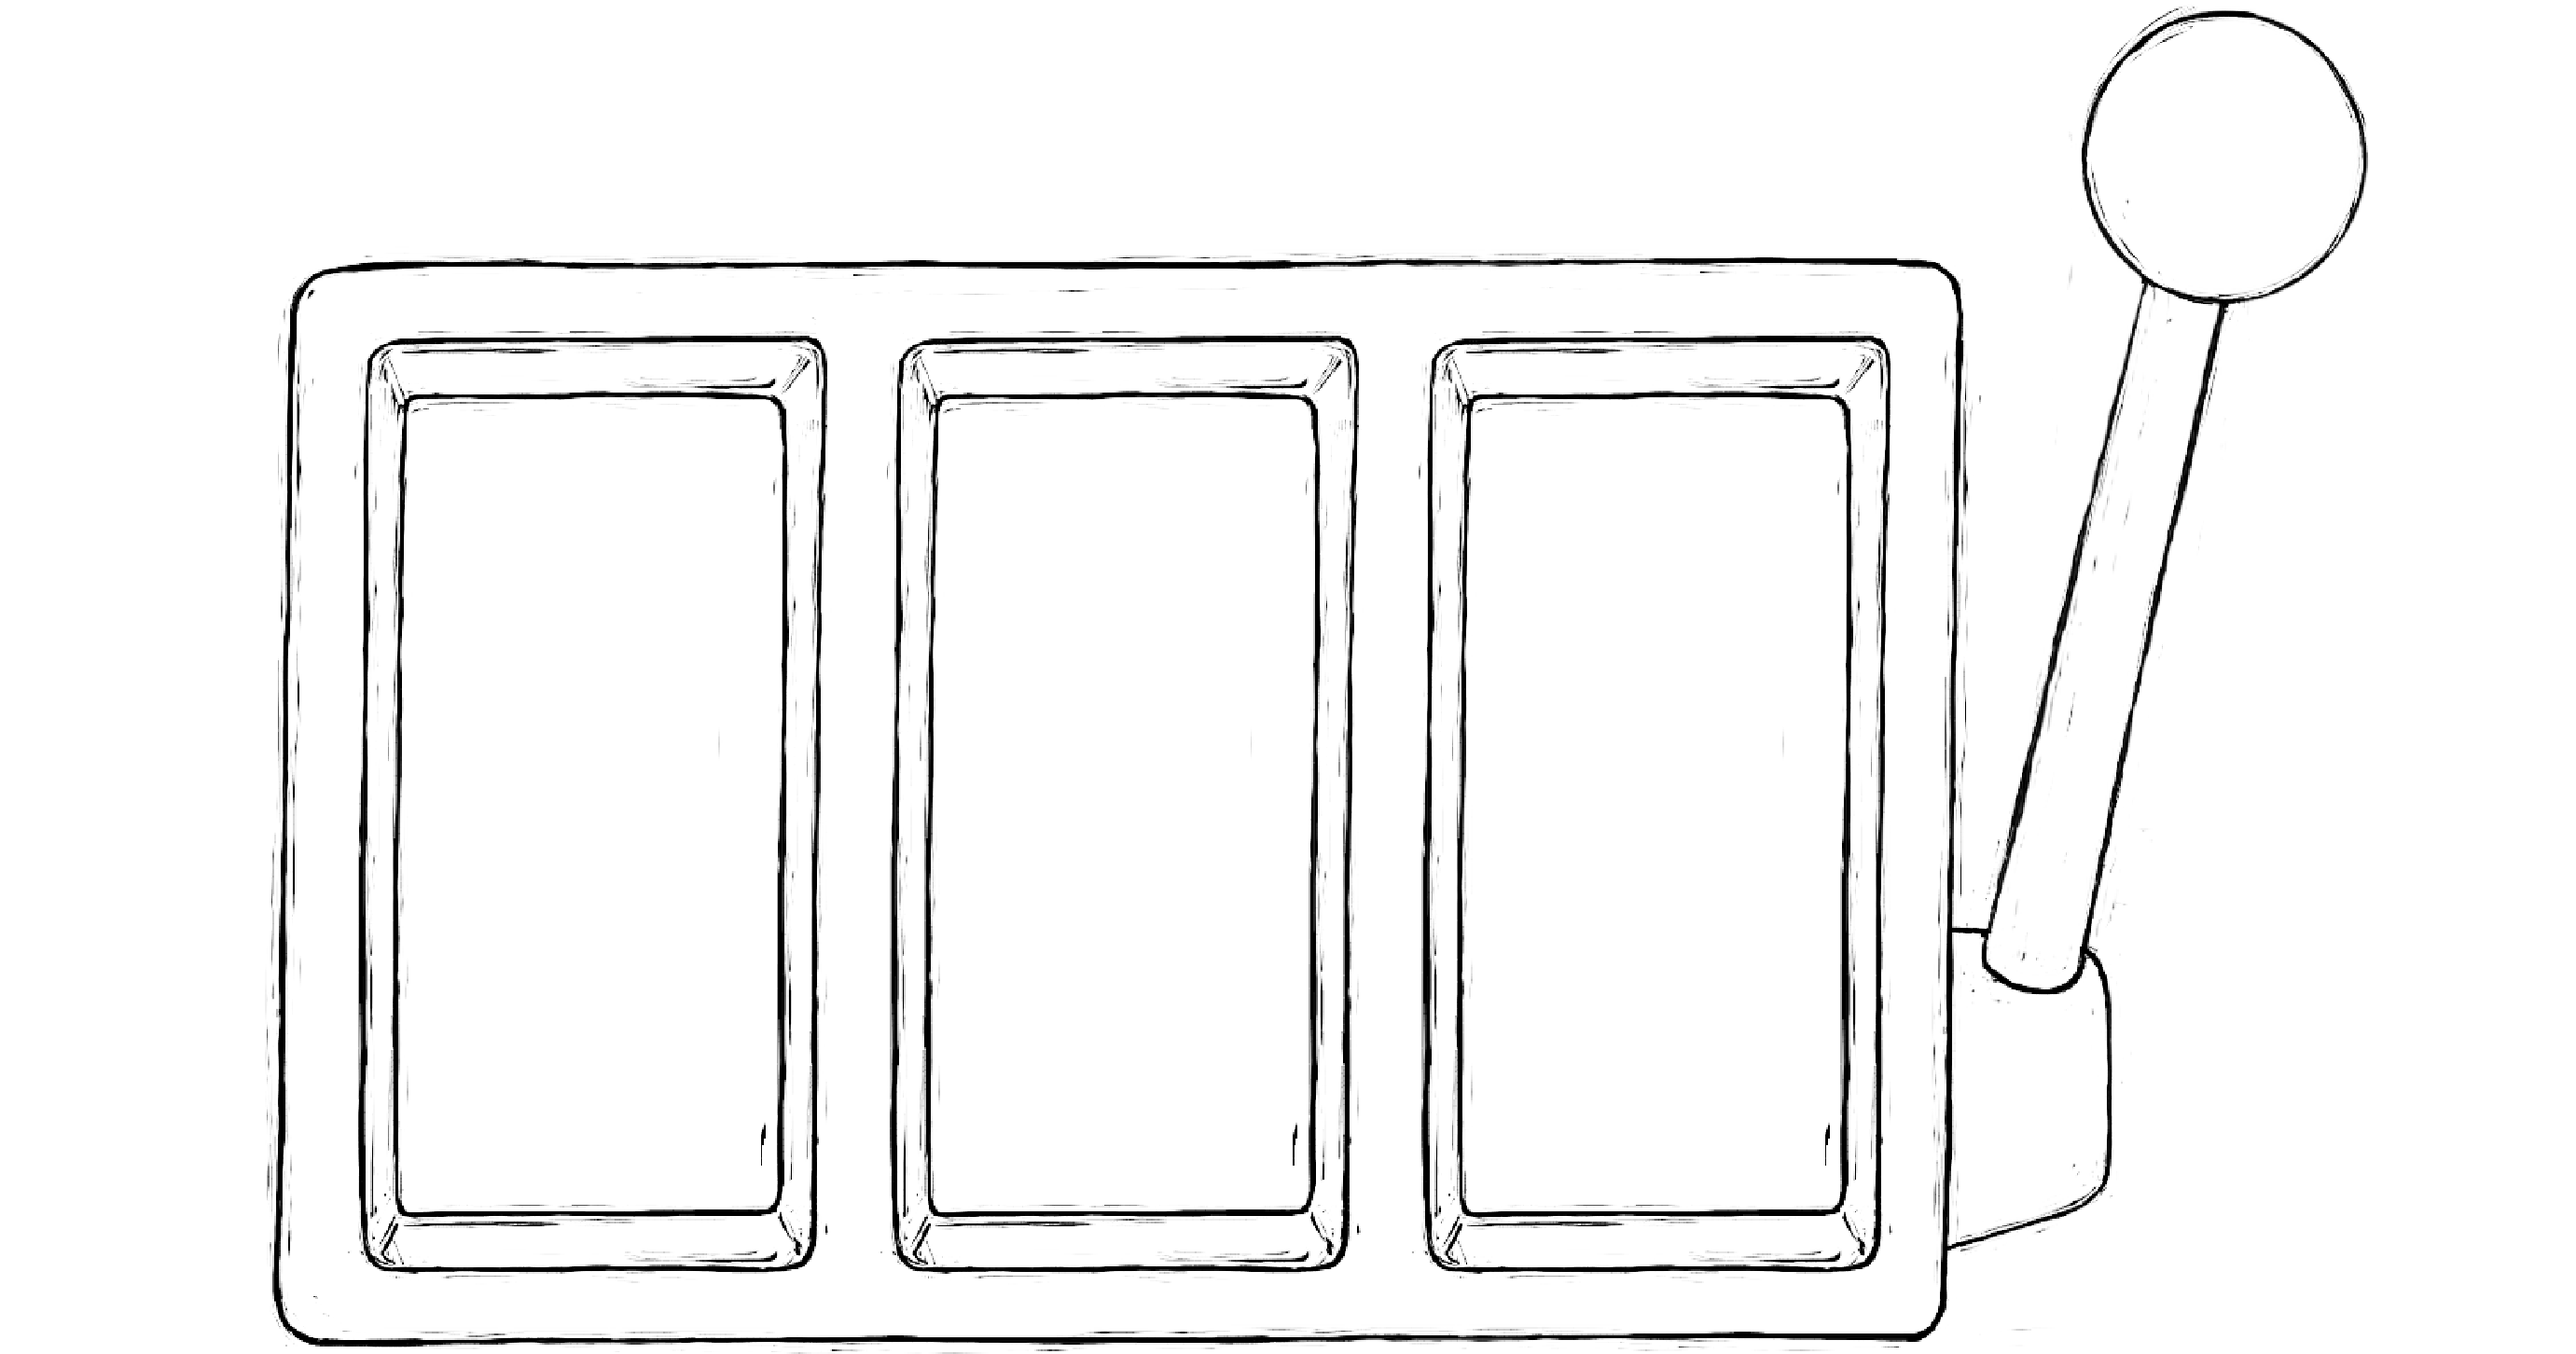
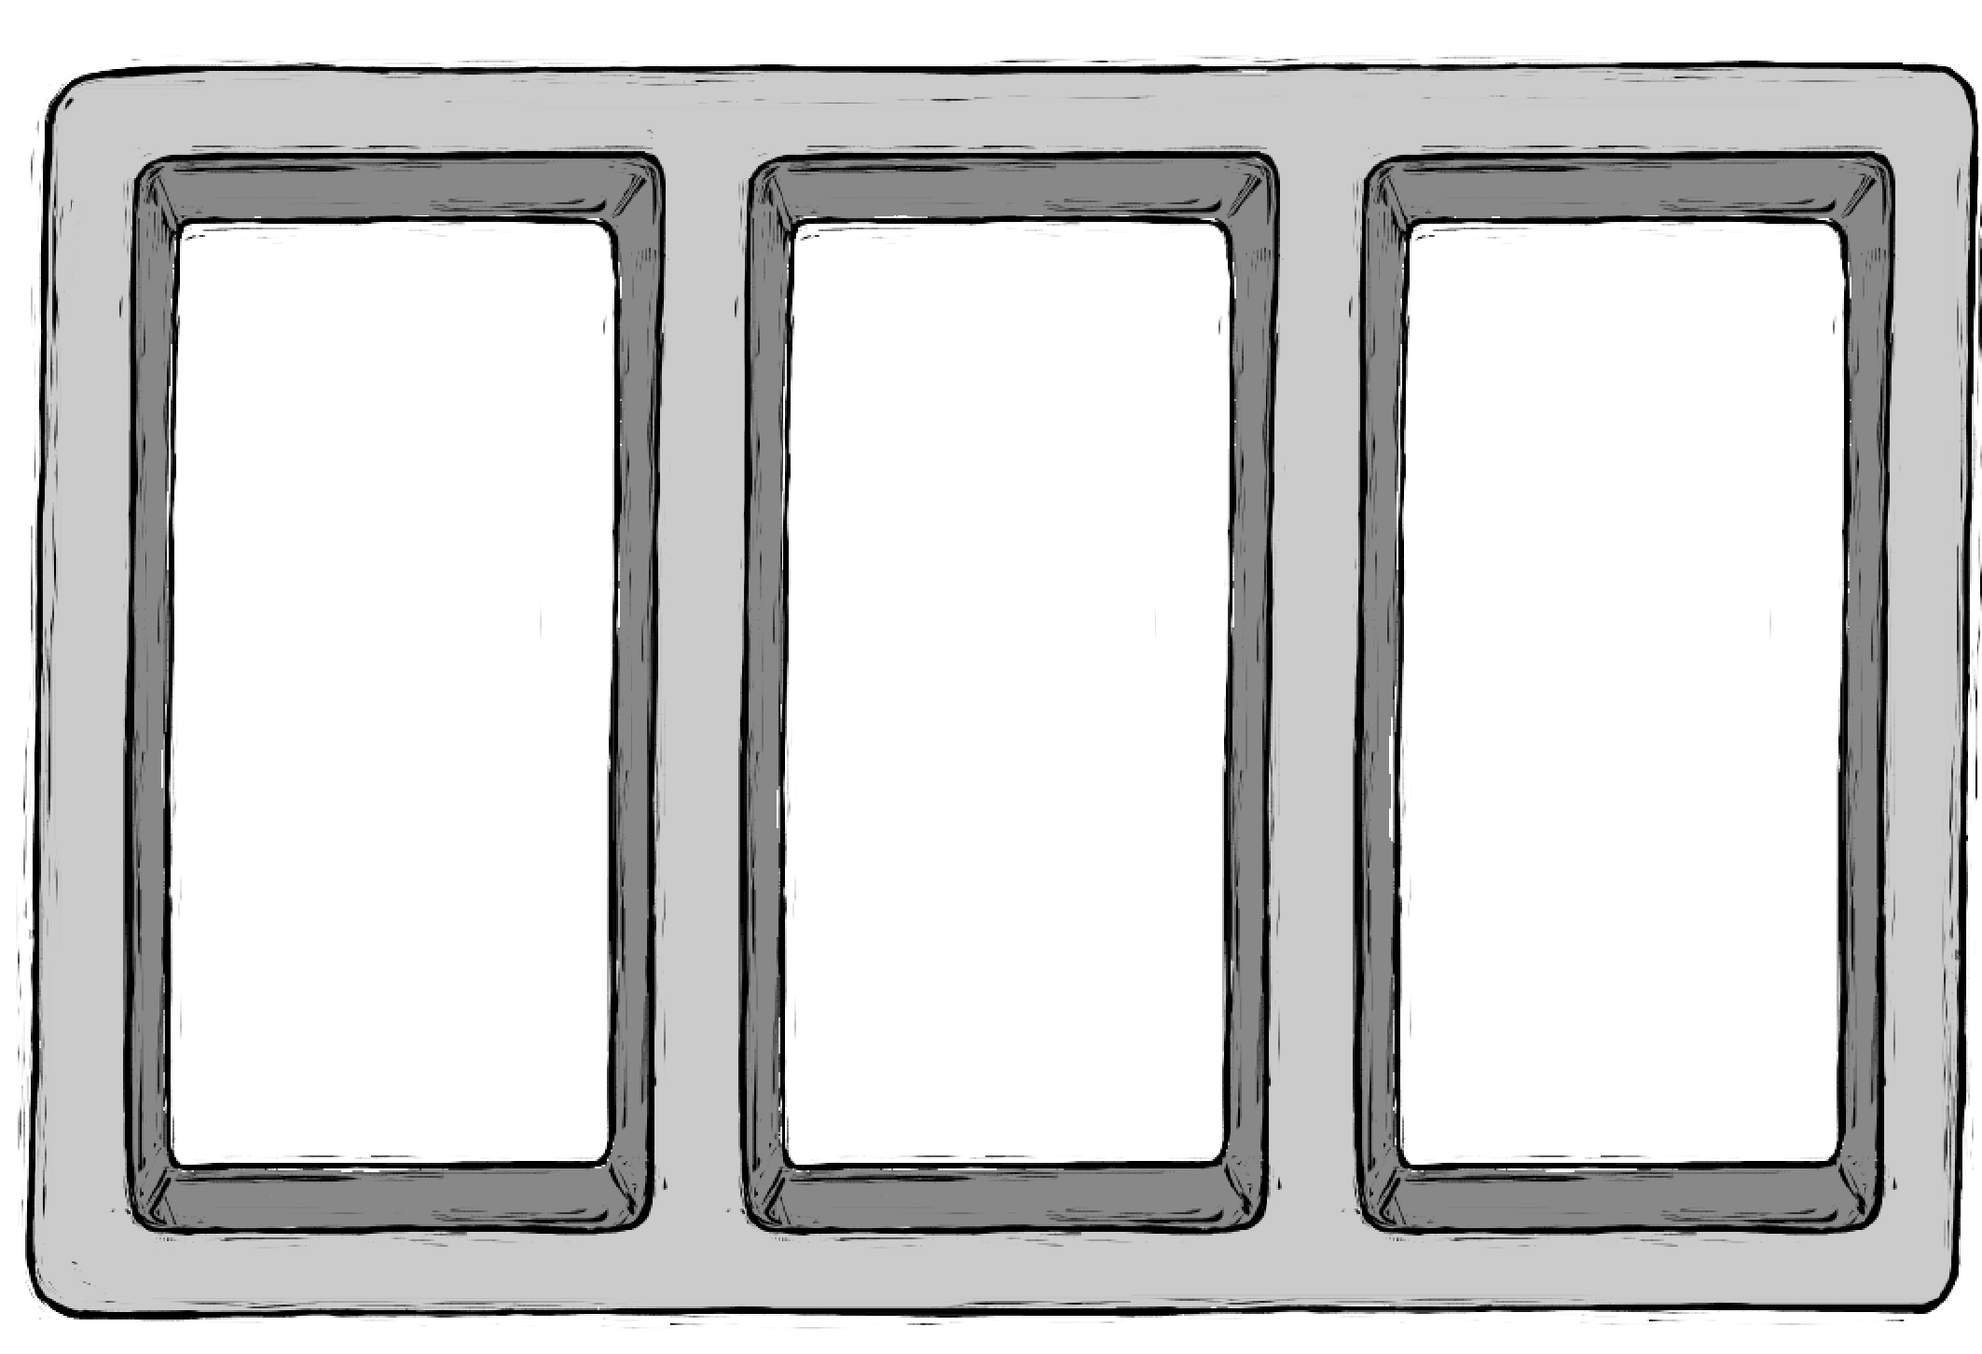
animation working frame by frame

diff --git a/level5/jackpot.js b/level5/jackpot.js
@@ -10,10 +10,19 @@ var slotsObj = [];
 var slot1;
 var slot2;
 var slot3;
-var _speed = 5;
+var _speed = 10;
 var _offset = 145;
 
-var _animationTime = 5;
+const handle = document.querySelector('img.handleAnim');
+const totalFrames = 20;
+const animationDuration = 50;
+const timePerFrame = animationDuration / totalFrames;
+let timeWhenLastUpdate;
+let timeFromLastUpdate;
+let frameNumber = 1;
+const imagePath = '../Assets/Graphics/Level5/OriginalAnim/machine_anim_branche_';
+
+var _animationTime = 5*100;
 var _timerId;
 var _timer = 0;
 var userHasWon = false;
@@ -39,6 +48,24 @@ function createSlot() {
    }
 }
 
+function handleFrameAnimation (startTime) {
+
+  if (!timeWhenLastUpdate) timeWhenLastUpdate = startTime;
+    timeFromLastUpdate = startTime - timeWhenLastUpdate;
+
+  if (timeFromLastUpdate > timePerFrame) {
+    handle.src = imagePath + `${frameNumber}.png`;
+    console.log(handle.src);
+    timeWhenLastUpdate = startTime;
+
+    if (frameNumber >= totalFrames) {
+      frameNumber = 1;
+    } else {
+       frameNumber = frameNumber + 1;
+    }
+  }
+}
+
 function debugOffsetHeight () {
   var viewportOffset = slot1.iconArray[7].getBoundingClientRect();
   // console.log(testIcon.offsetTop);
@@ -48,16 +75,17 @@ function debugOffsetHeight () {
 
 function automaticScroll () {
   if(_timer< _animationTime) {
+    handleFrameAnimation(_timer);
     for(var i = 0; i < slots.length; i++) {
-     slots[i].scrollTop += 1+i*_speed;
-     if(slots[i].scrollTop >= slots[i].offsetHeight*2-40) {
+     slots[i].scrollTop += (i+1)*_speed;
+     if(slots[i].scrollTop >= slots[i].offsetHeight*2-180) {
       slots[i].scrollTop = 0;
      }
     }
     window.requestAnimationFrame(automaticScroll);
   } else {
     clearInterval(_timerId);
-    console.log(userHasWon);
+    // console.log(userHasWon);
     //lock with nearest target slots[i].result
   }
 }
@@ -66,8 +94,9 @@ function startRound () {
   _timer=0;
   for(var i = 0; i < slotsObj.length; i++) {
      slotsObj[i].container.scrollTop = 0;
+     console.log(slots[i].scrollHeight);
      slotsObj[i].drawResult();
-    console.log(slotsObj[i].result);
+    // console.log(slotsObj[i].result);
   }
 
   if(slotsObj[0].result === slotsObj[1].result && slotsObj[0].result === slotsObj[2].result ) {
@@ -75,7 +104,7 @@ function startRound () {
   } else {
     userHasWon = false;
   }
-  _timerId = window.setInterval(countdown, 1000);
+  _timerId = window.setInterval(countdown, 1);
   window.requestAnimationFrame(automaticScroll);
 }
 

diff --git a/level5/waitingTimeStyle.css b/level5/waitingTimeStyle.css
@@ -1,20 +1,32 @@
+body {
+  width:100%;
+  height:100%;
+}
+
 .slotMachine {
   display:none;
 }
 
 .slotMachineGraphics{
   position:fixed;
-  width:55vw;
-  height:30vw;
-  left:25vw;
+  top:5vw;
+  width:40vw;
+  left:30vw;
+  z-index:2;
+}
+
+.handleAnim {
+   position:fixed;
+  width:50vw;
+  left:32vw;
 }
 
 .slot {
   position:fixed;
-  width:9vw;
-  height:18vw;
+  width:10vw;
+  height:20vw;
   left:31vw;
-  margin-top:9vw;
+  margin-top:5vw;
   overflow:hidden;
   /*overflow-y:scroll;*/
   /*background-color:#E7E7E7;*/
@@ -50,11 +62,11 @@
 }
 
 #slot2 {
-  left:45vw;
+  left:46vw;
 }
 
 #slot3 {
-  left:56.5vw;
+  left:58.5vw;
 }
 
 .iconWrap {
@@ -72,9 +84,9 @@ button {
   border-style:solid;
   border-width:0.15vw;
   z-index:2;
-  bottom:25%;
-  left:45%;
-  font-size:4em;
+  bottom:10vw;
+  left:46%;
+  font-size:2.5vw;
   padding:0.2em 0.3em;
   border-radius:10px;
 }

diff --git a/level5/waitingTimeCall.html b/level5/waitingTimeCall.html
@@ -15,7 +15,8 @@
   </div>
   <div class="gameContainer">
     <div class="slotMachine">
-      <img class="slotMachineGraphics"src="../Assets/Graphics/Level5/SlotMachine.png" alt="">
+      <img class="slotMachineGraphics"src="../Assets/Graphics/Level5/SlotMachine.png" alt="slot machine">
+      <img class="handleAnim" src="../Assets/Graphics/Level5/OriginalAnim/machine_anim_branche_1.png" alt="handle slot machine animation"/>
       <button class="btnStartMachine">START</button>
       <div id="slot1" class="slot"></div>
       <div id="slot2" class="slot"></div>
